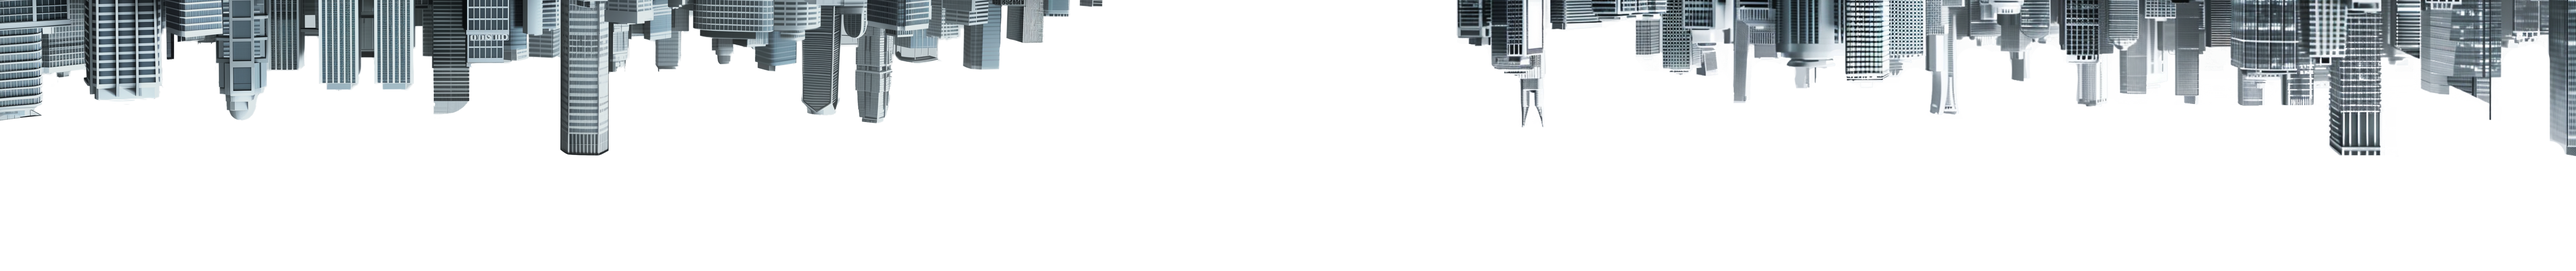
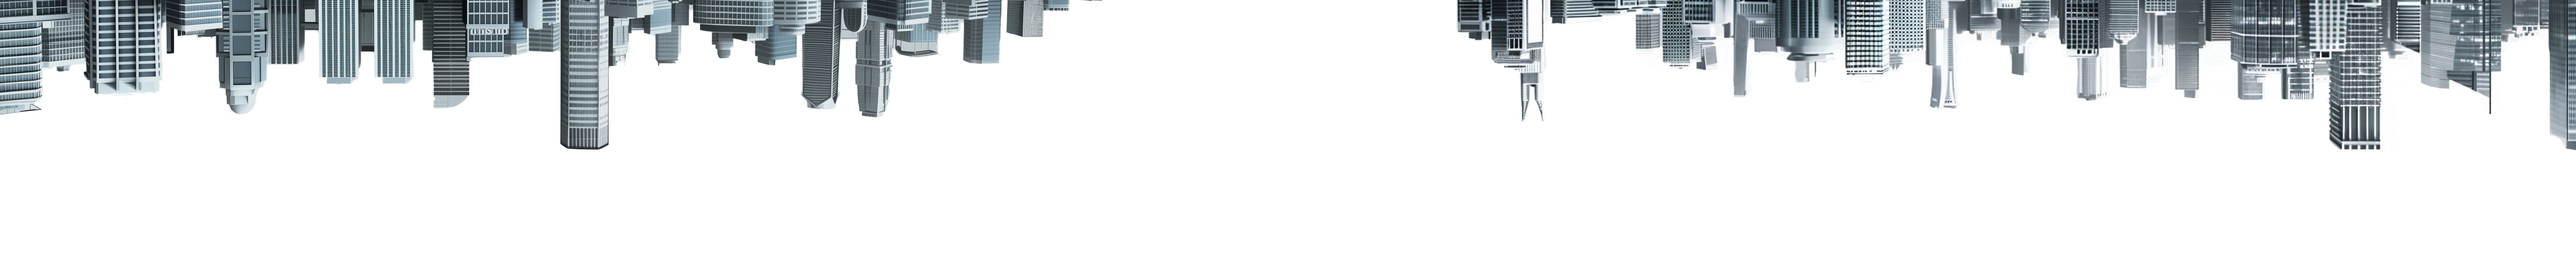
fg

diff --git a/index.html b/index.html
@@ -399,7 +399,7 @@ input[type="range"]::-moz-range-thumb {
 </head>
 <body>
   <a href="about.html" id="about-button">About</a>
-<img src="images/city.png" alt="City Skyline" class="city-background" style="width: 100%; display: center; opacity: 0.5"/>
+<img src="images/city.png" alt="City Skyline" class="city-background" style="width: 100%; display: center; opacity: 0.35"/>
 
   <img src="images/title2.png" alt="Title Image" style="max-width: 1020px; width:100%; margin-top: 22px;" />
   <img src="images/serv_title.png" alt="Title Image3" style="max-width: 920px; width:100%; margin-top: -10px; margin-bottom: 18px;" />
